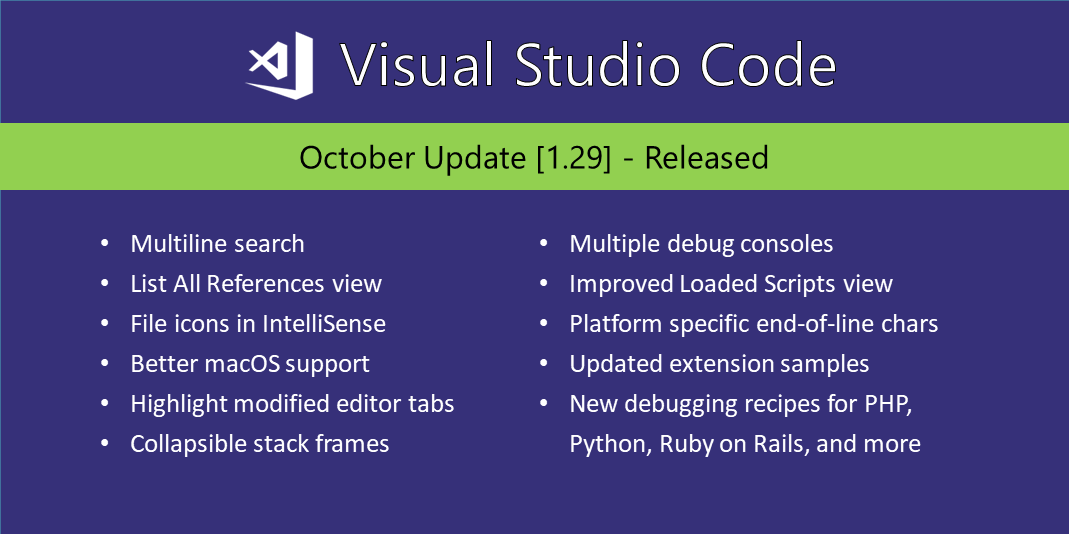
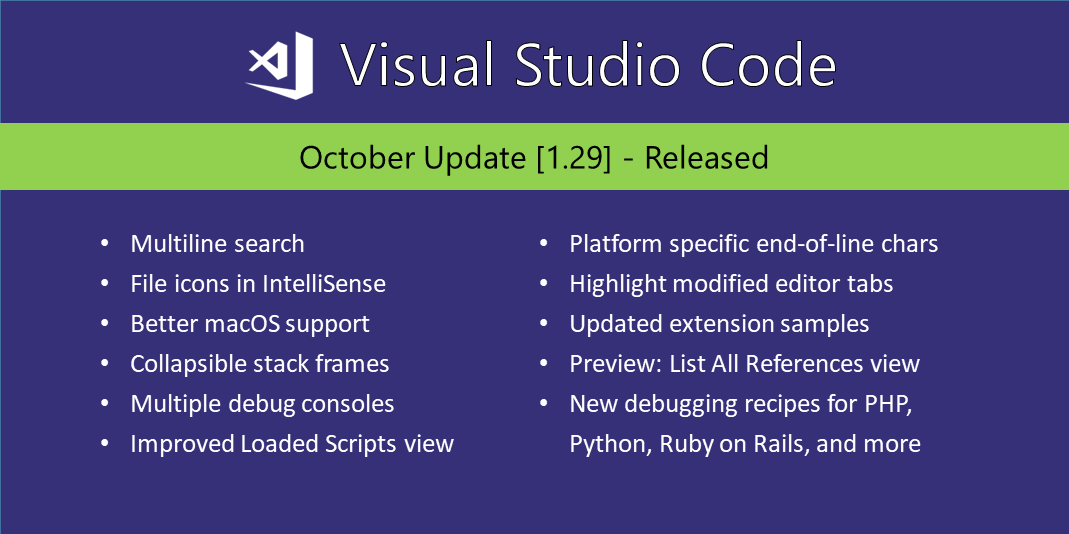
References view is preview

diff --git a/release-notes/v1_29.md b/release-notes/v1_29.md
@@ -4,7 +4,7 @@ TOCTitle: October 2018
 PageTitle: Visual Studio Code October 2018
 MetaDescription: See what is new in the Visual Studio Code October 2018 Release (1.29)
 MetaSocialImage: 1_29/release-highlights.png
-Date: 2018-11-07
+Date: 2018-11-08
 DownloadVersion: 1.29.0
 ---
 # October 2018 (version 1.29)
@@ -19,8 +19,8 @@ Welcome to the October 2018 release of Visual Studio Code. There are a number of
 * **[Collapsible stack frames](#collapsible-stack-frames)** - Collapse uninteresting stack frames to clearly see your code.
 * **[Improved Loaded Scripts view](#improved-loaded-scripts-view)** - Displays related resources such as original source files.
 * **[Updated extension samples](#normalized-extension-samples)** - Uniform style and structure, README, and API usage.
-* **[CI recipe for extensions](#using-azure-pipelines-for-extension-ci)** - Azure pipeline build recipe for extensions.
-* **[Preview of List All References](#references-view)** - List All References view shows reference search results.
+* **[CI recipe for extensions](#using-azure-pipelines-for-extension-ci)** - Azure Pipelines build recipe for extensions.
+* **[Preview: List All References](#references-view)** - List All References view shows reference search results.
 
 >If you'd like to read these release notes online, go to [Updates](https://code.visualstudio.com/updates) on [code.visualstudio.com](https://code.visualstudio.com).
 
@@ -67,16 +67,6 @@ There is a new setting `search.useReplacePreview` which allows you to disable th
 Git allows you to configure a global `gitignore` file using the `core.excludesfile` config property. By default, search does not respect the global `gitignore` file, but you can now change this by enabling the new setting `search.useGlobalIgnoreFiles`.
 
 ## Workbench
-
-### Preview of References View
-
-There is a new command **List All References** which displays a dedicated SideBar view to see reference search results. This complements the existing Peek view presentation and provides a more stable work list of references. In the context menu, select **List All References** (`kb(references-view.find)`) and see how references are shown in a separate view, just like search results.
-
-![References View](images/1_29/references-view.gif)
-
-Results are stable and individual results can be cleared which is great if you use the view as To Do list. You can use `kb(references-view.showNextReference)` and `kb(references-view.showPrevReference)` to navigate through results without taking your hands off the keyboard. The view will hide again when results are cleared.
-
-Let us know what you think and we'll refine the experience in our next update.
 
 ### macOS Mojave Dark Mode support
 
@@ -375,6 +365,20 @@ There are two possible workarounds for this:
 * Change your GTK theme. You can do this by installing the Gnome Tweaks application and using the previous default theme `Adwaita`.
 
 Information on this issue can be tracked in issue [62593](https://github.com/Microsoft/vscode/issues/62593).
+
+## Preview Features
+
+Preview features are not ready for release but are functional enough to use. We welcome your early feedback while they are under development.
+
+### References View
+
+There is a new command **List All References** which displays a dedicated Side Bar view to see reference search results. This complements the existing Peek view presentation and provides a more stable work list of references. In the context menu, select **List All References** (`kb(references-view.find)`) and see how references are shown in a separate view, just like search results.
+
+![References View](images/1_29/references-view.gif)
+
+Results are stable and individual results can be cleared which is great if you use the view as To Do list. You can use `kb(references-view.showNextReference)` and `kb(references-view.showPrevReference)` to navigate through results without taking your hands off the keyboard. The view will hide again when results are cleared.
+
+Let us know what you think and we'll refine the experience in our next update.
 
 ## Extension Authoring
 
